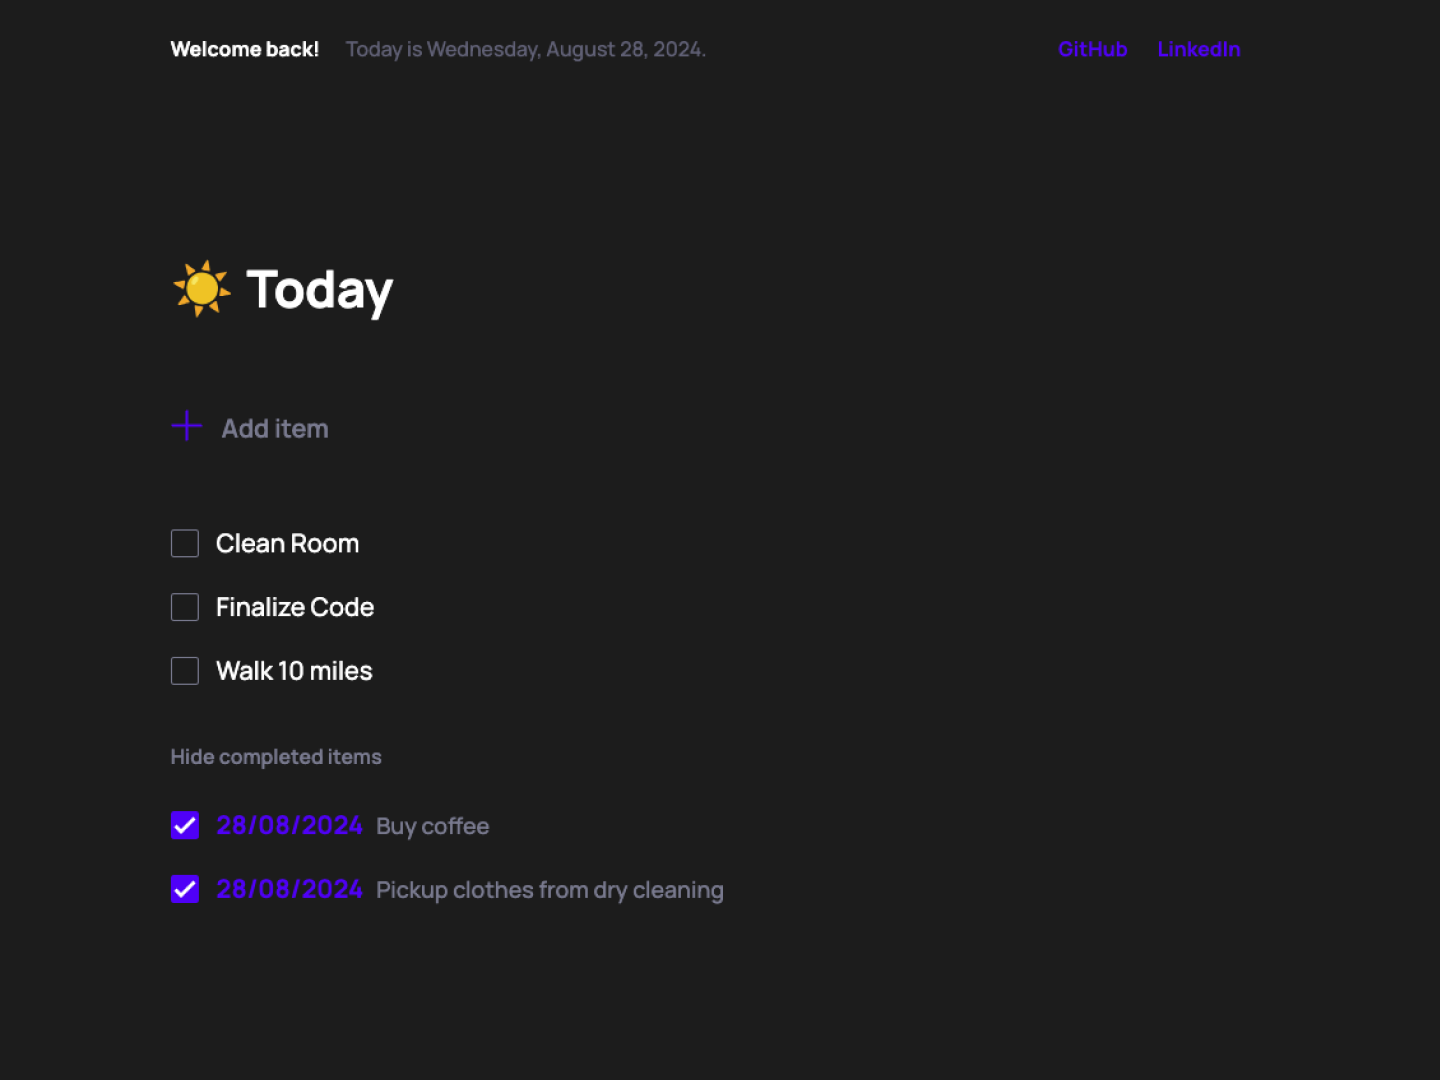
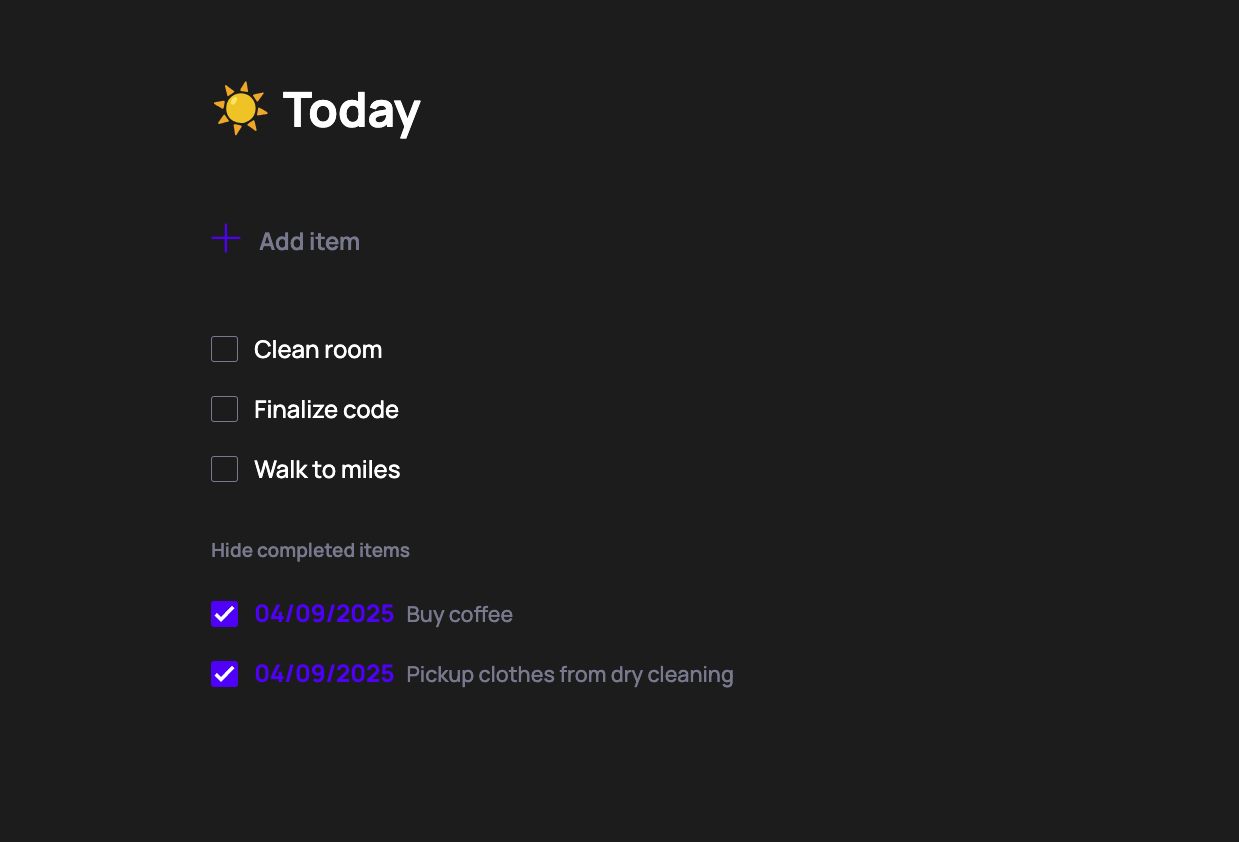
Image updates 2

diff --git a/app/components/Project.tsx b/app/components/Project.tsx
@@ -142,14 +142,15 @@ export function Project() {
             rel="noopener noreferrer"
             aria-label={`View details for ${project.title}`}
           >
-            <div className="group flex items-center p-4 mb-4 gap-4 bg-card rounded-lg cursor-pointer">
-              <Image
-                src={project.image}
-                width={138}
-                height={104}
-                className=" rounded-[4px] shadow-project sm:group-hover:transform sm:group-hover:-translate-y-1 sm:transition-transform sm:duration-500 sm:ease-in-out"
-                alt={`Image of ${project.title}`}
-              />
+            <div className="group flex items-center p-4 mb-4 gap-4 bg-card rounded-lg cursor-pointer ">
+              <div className="bg-transparent relative w-[200px] h-[140px] shrink-0 overflow-hidden rounded-[4px] sm:group-hover:transform sm:group-hover:-translate-y-1 sm:transition-transform sm:duration-300 sm:ease-in-out">
+                <Image
+                  src={project.image}
+                  fill
+                  className=" rounded-[4px] shadow-project "
+                  alt={`Image of ${project.title}`}
+                />
+              </div>
 
               <div className="text-sm leading-4 tracking-tight">
                 <p className="text-secondary mb-2">{project.title}</p>
